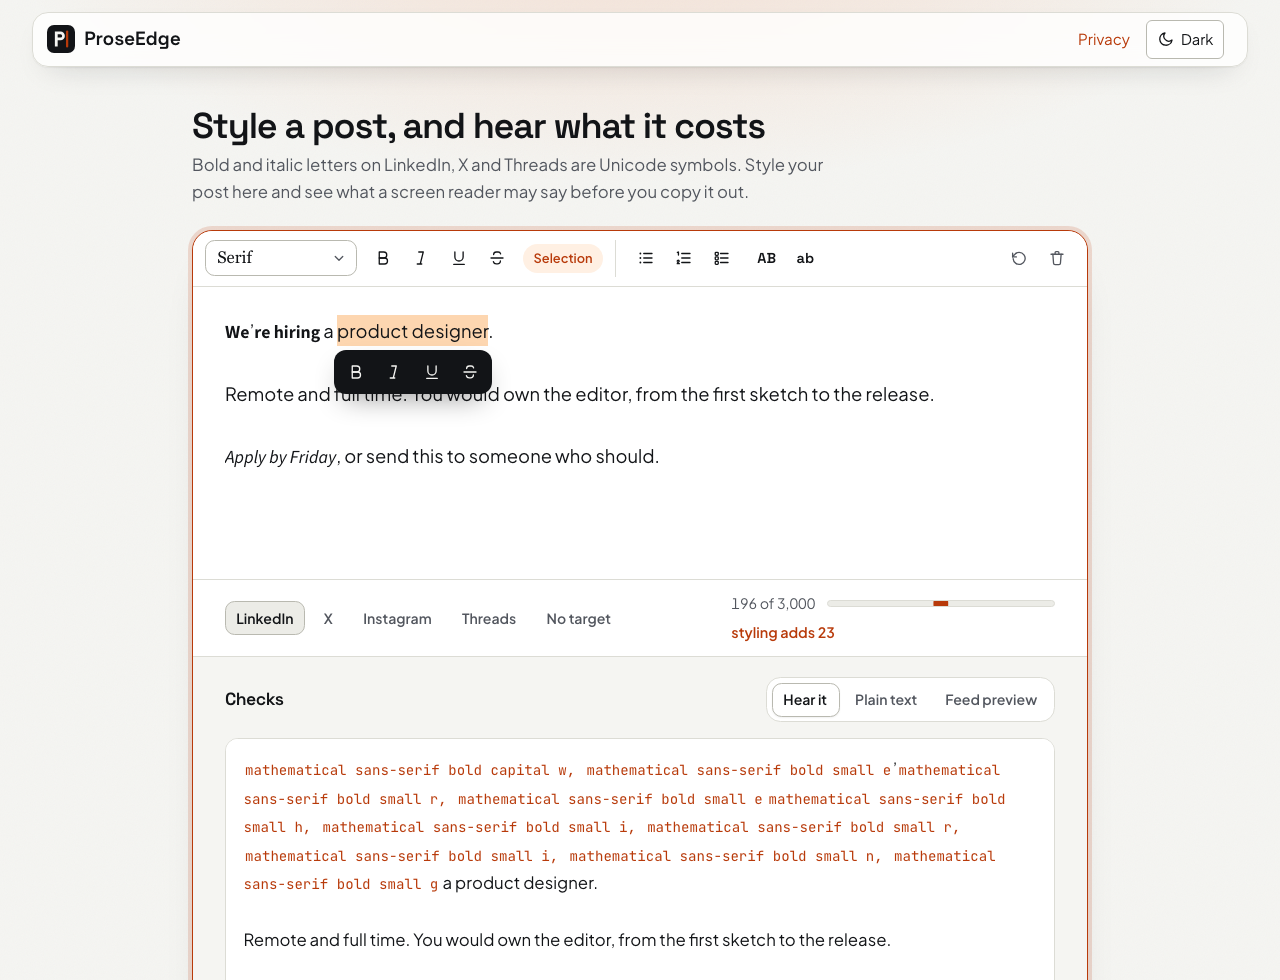
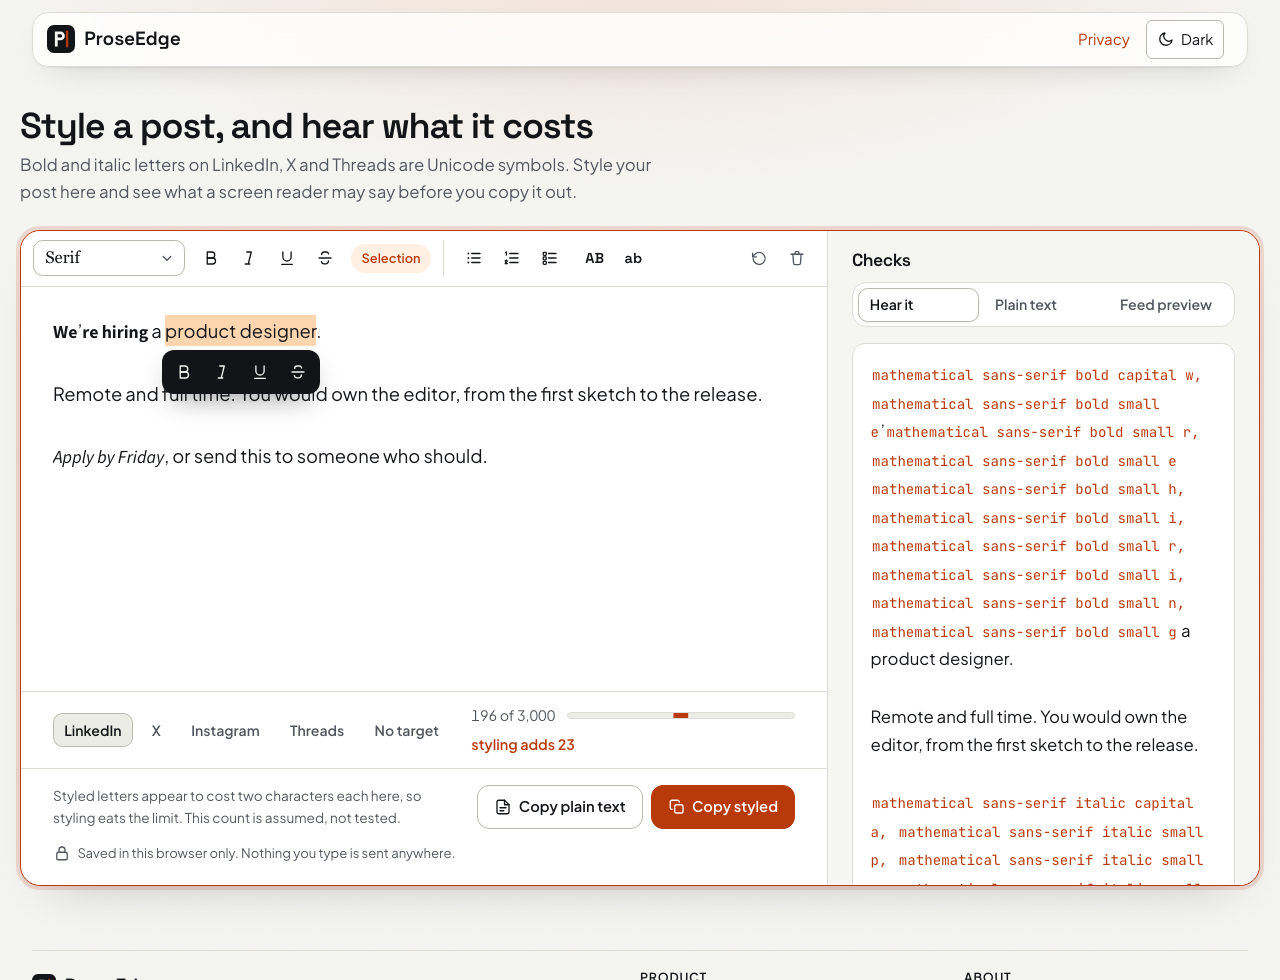
docs: show the side-by-side formatter in the README and ADR 0014
The README screenshots now show the wide layout, with the checks beside
the post, and ADR 0014 records why the checks moved there.

diff --git a/README.md b/README.md
@@ -43,7 +43,7 @@ lookalikes.
 
 <picture>
   <source media="(prefers-color-scheme: dark)" srcset="docs/screenshots/app-format-dark.png">
-  <img alt="The formatter: one sheet with a toolbar of alphabet, emphasis, list and case controls; the post below it with 'product designer' selected and a small bold, italic, underline and strikethrough bar floating over it; then the LinkedIn character budget, and a Checks panel reading the styled words out as a screen reader may, as 'mathematical sans-serif bold capital w' and so on." src="docs/screenshots/app-format-light.png">
+  <img alt="The formatter on a wide screen: on the left, a toolbar of alphabet, emphasis, list and case controls above the post, with 'product designer' selected and a small bold, italic, underline and strikethrough bar floating over it, then the LinkedIn character budget and the copy buttons; on the right, a Checks column reading the styled words out as a screen reader may, as 'mathematical sans-serif bold capital w' and so on." src="docs/screenshots/app-format-light.png">
 </picture>
 
 Light and dark follow an explicit in-app toggle, not the operating system's

diff --git a/docs/adr/0014-formatter-write-and-hear.md b/docs/adr/0014-formatter-write-and-hear.md
@@ -44,6 +44,10 @@ restore-draft prompt.
   float over selected words on fine pointers. It repeats toolbar buttons, so it
   is hidden from assistive technology and the tab order; touch screens never
   show it, because the system selection menu sits there.
+- **Beside, on wide screens.** From 70rem the Checks section moves into a
+  sticky column to the right of the post, so the read-out changes in view as
+  you type instead of a scroll below. The post column sets the sheet's height
+  (size containment on the column); phones keep the stacked order.
 - **Empty first.** The editor opens empty with a "Try an example" button whose
   post already carries some styling.
 
